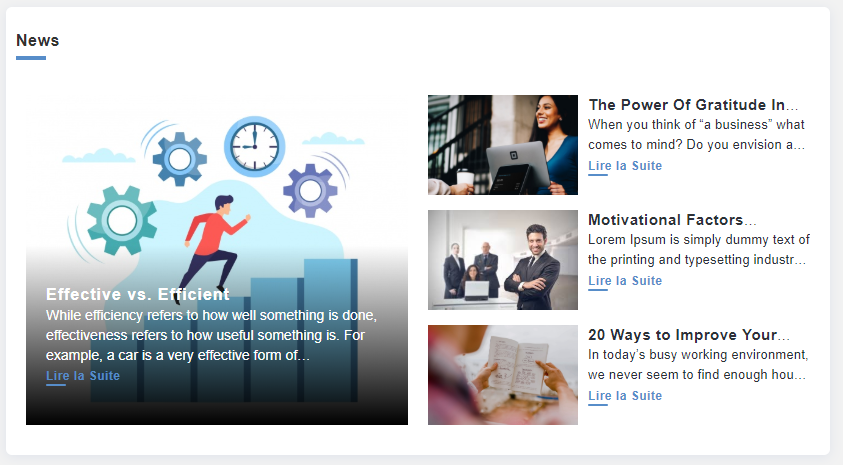
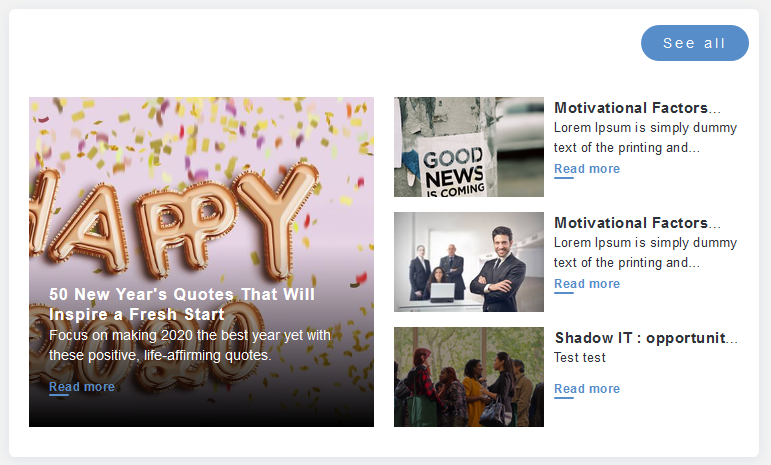
News - M12 documentation

diff --git a/docs/GettingStarted.rst b/docs/GettingStarted.rst
@@ -1238,7 +1238,7 @@ The article will be posted into the space's activity stream
 
          
 You can access the content of the article either by clicking on its title or by clicking on "read more".
-The details of the article are available on the current page and display all the information, including the publication date and the author.
+The details of the article are available on the current page and display all the information, including the publication date, the author and all the activity reactions (likes, comments and sent kudos) 
 
 |image162|
 
@@ -1323,6 +1323,10 @@ You can display the pinned articles with one of the following layouts :
 - Latest News layout: 
 
 |image198|
+
+When you click on the "See all" button,  you are redirected automatically to news application filtered by pinned articles
+
+|image205|
 
 
 Unpinning a News from the home page
@@ -1426,13 +1430,25 @@ You can look for articles easily using the available search bar in the topbar of
 News application filters
 ^^^^^^^^^^^^^^^^^^^^^^^^^
 
-Different filters are available from News application so you can easily find pinned articles, your posted articles, your scheduled articles, your drafts or your archived articles.
+Different filters are available from News application so you can easily find articles posted in specific spaces, pinned articles, your posted articles, your scheduled articles, your drafts or your archived articles.
+
+You can search articles by spaces using the filter button from the top bar.
+
+|image206|
+
+In the displayed drawer, you can choose from or search in the list of the spaces in which you are member the space(s) you want to filter by articles in the application then apply the using the button to be redirected to the filtered view. 
+
+|image207|
+
+|image208|
 
 To display the pinned news list, select this option from the dropdown menu of the application topbar.
 
 |image197|
 
-After applying this filter, the list will only contain the articles that have been pinned on the home page. 
+After applying this filter, the list will only contain the articles that have been pinned on the home page. You can reset the filters using the appropriate button inside the drawer.
+
+
 
 	
 .. _Formatting-toolbar:
@@ -2301,3 +2317,8 @@ to display the original timestamp of the comment.
 .. |image202| image:: images/sharenews/upload_files_form.png
 .. |image203| image:: images/sharenews/attachments-details.png
 .. |image204| image:: images/sharenews/file_preview.png
+.. |image205| image:: images/sharenews/pinned_view.png
+.. |image206| image:: images/sharenews/filter_button.png
+.. |image207| image:: images/sharenews/filter_drawer.png
+.. |image208| image:: images/sharenews/filtered_view.png
+
